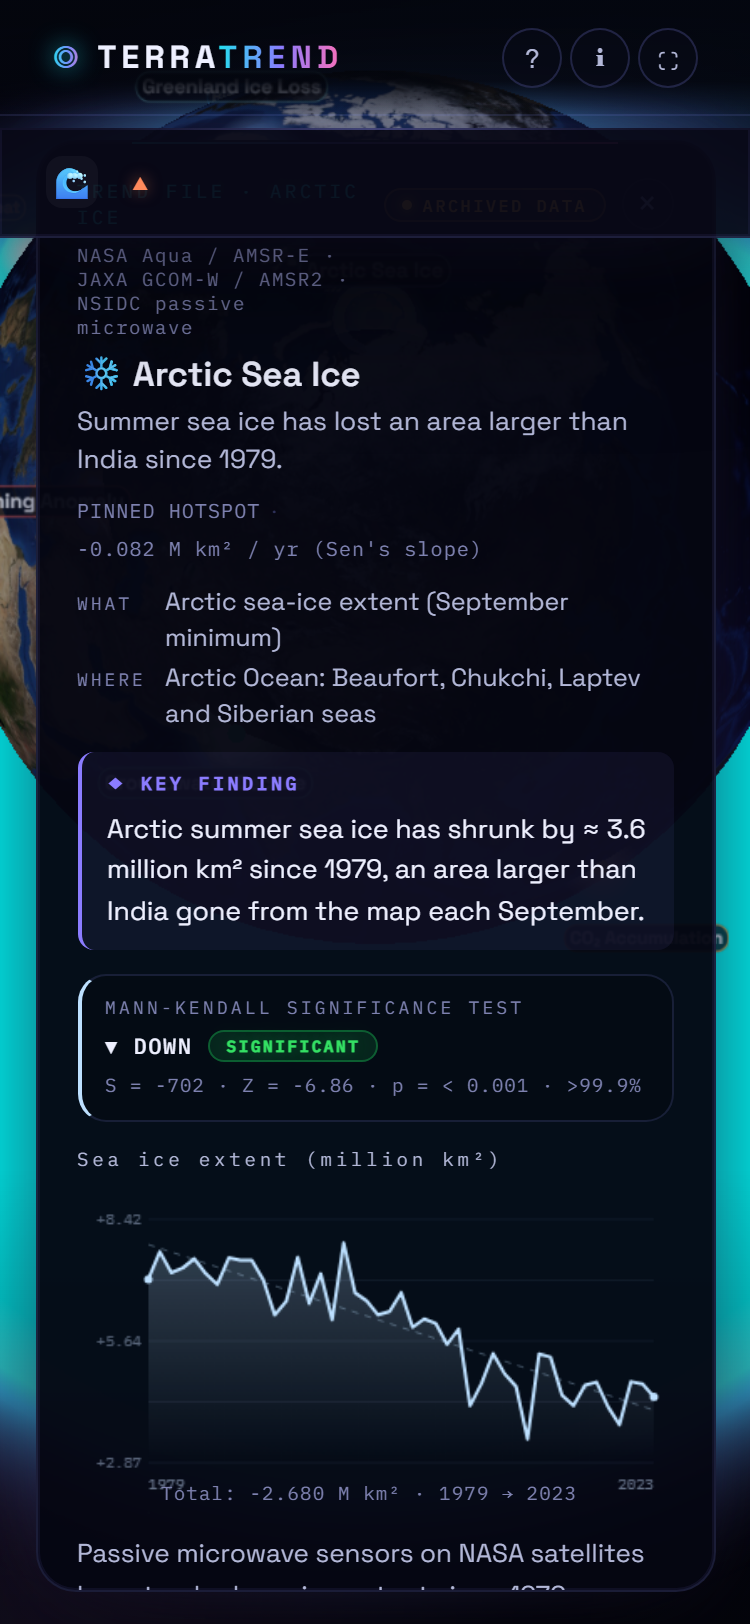
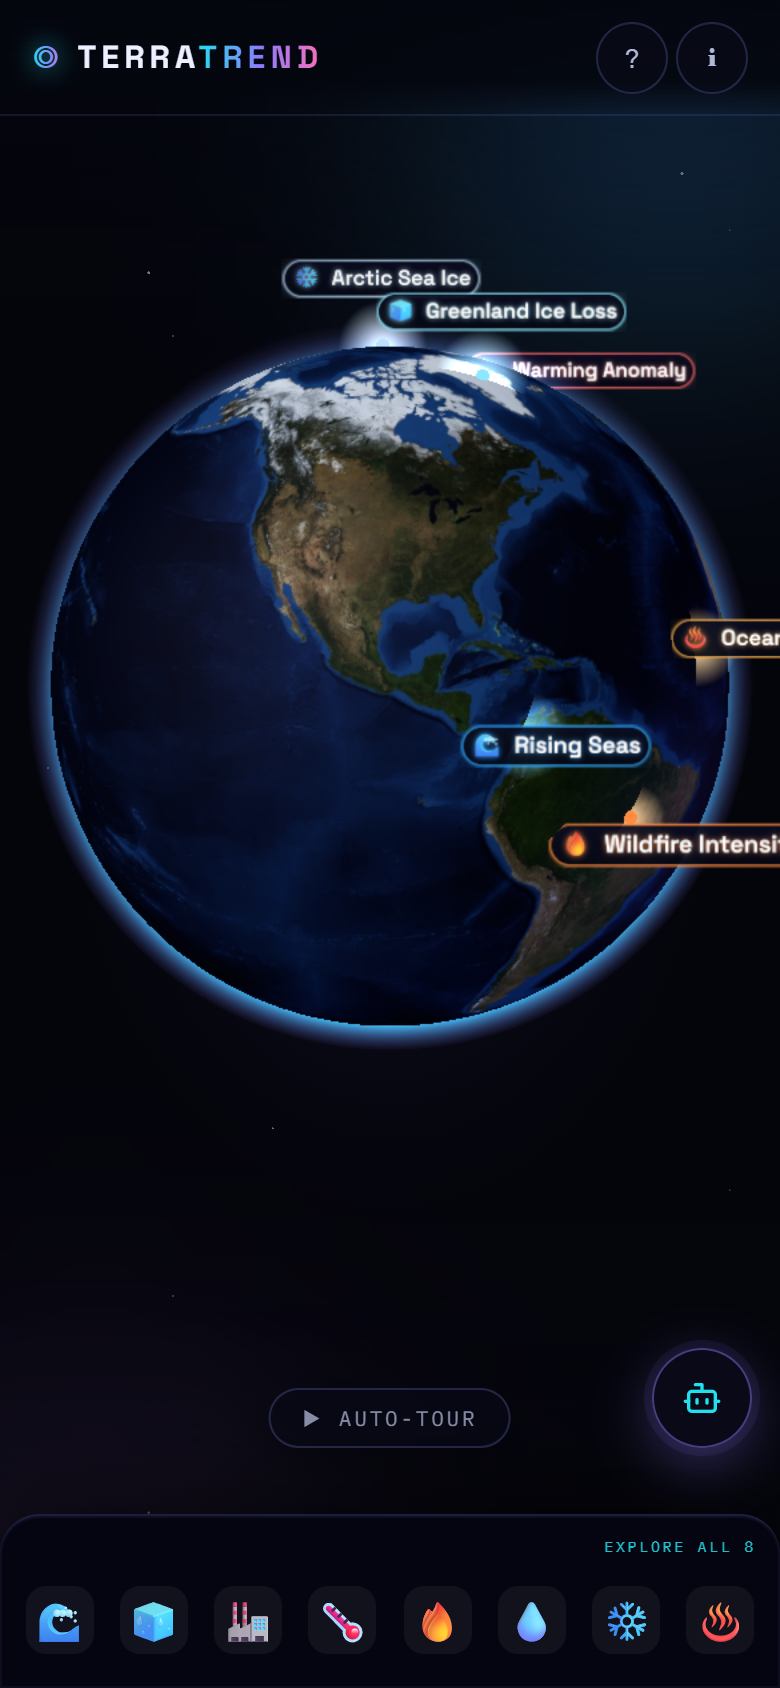
Overhaul README for hackathon judges + fresh screenshots
README changes:
- Add placeholder YouTube video demo badge at top
- Add Impact section explaining who benefits and why it matters
- Add explicit NASA missions list under Challenge table
- Add Mann-Kendall methodology justification (rank-based, robust
  to non-normal distributions - standard in Earth science)
- Trim Features to 8 high-impact bullets; remove implementation details
- Remove Architecture diagram, Data Flow ascii and Project Structure
  tree (developer docs, not judge-facing)
- Move Running Locally below What's Next
- Update Variables table to show mission names more prominently

Screenshots (fresh captures from live site):
- splash.png: updated
- globe.png: updated (shows all 8 hotspot labels)
- panel-open.png: new - CO2 panel with chart and MK stats visible
- mobile-globe.png: updated
- mobile-panel.png: new - mobile panel with Rising Seas case file

Fix .gitignore to only exclude root-level PNGs (/*.png) so
docs/screenshots/ images are tracked correctly.

diff --git a/README.md b/README.md
@@ -5,6 +5,7 @@
 > Select a variable. Spin the globe. Discover what is changing, where, by how much and whether it is statistically significant.
 
 [![Live Demo](https://img.shields.io/badge/Live%20Demo-terratrend2.vercel.app-8b7cff?style=flat-square)](https://terratrend2.vercel.app)
+[![Video Demo](https://img.shields.io/badge/Video%20Demo-YouTube-ff0000?style=flat-square&logo=youtube)](https://youtu.be/PLACEHOLDER)
 [![NASA Space Apps](https://img.shields.io/badge/NASA%20Space%20Apps-2026-22e0ee?style=flat-square)](https://www.spaceappschallenge.org/)
 [![Stack](https://img.shields.io/badge/Stack-Vanilla%20JS%20%2B%20Three.js-ff6fb5?style=flat-square)](#technology)
 
@@ -32,95 +33,32 @@ The *Be an Earth System Trend Detective* challenge asks teams to use NASA data t
 | **How much** is it changing? | Sen's slope gives the rate of change per year in real units (mm, ppm, Gt, ZJ) |
 | **Is it statistically significant?** | Mann-Kendall non-parametric test reports S, Z, p-value and confidence level; only trends with p < 0.05 are marked significant |
 
-All data comes from NASA missions or NASA-partner agencies. The app pulls live measurements where CORS-enabled APIs exist and falls back silently to curated real-measurement archives so the experience never breaks.
+> **Why Mann-Kendall?** Unlike linear regression, Mann-Kendall is rank-based and robust to non-normal distributions and outliers — making it the standard method used by Earth scientists to detect monotonic trends in climate time series.
+
+**NASA missions and datasets used:** GRACE-FO · Jason-3 / Sentinel-6 · OCO-2 / OCO-3 · GISS GISTEMP v4 · Terra / Aqua MODIS · NSIDC passive microwave · ICESat-2 · AIRS (Aqua) · NOAA GML Mauna Loa · NOAA NCEI / Argo Float Network
+
+---
+
+## Impact
+
+TerraTrend turns decades of satellite measurements into detective stories that anyone can follow.
+
+Every trend on this globe represents a real, measured change in an Earth system — changes that affect food security, coastal infrastructure, freshwater supply and weather patterns for billions of people. By surfacing the *key finding*, the *why it matters* narrative and the full statistical output for each variable, the app bridges the gap between raw NASA data archives and public understanding.
+
+The target audience is anyone curious about what the data actually says: students, educators, journalists and policymakers who need to understand the science without reading technical papers.
 
 ---
 
 ## Screenshots
 
 <p align="center">
-  <img src="docs/screenshots/splash.png" alt="Launch splash screen" width="45%" />
-  <img src="docs/screenshots/globe.png" alt="Interactive 3D globe" width="45%" />
+  <img src="docs/screenshots/splash.png" alt="Launch splash screen" width="48%" />
+  <img src="docs/screenshots/globe.png" alt="Interactive 3D globe with hotspot labels" width="48%" />
 </p>
-
----
-
-## Architecture
-
-```mermaid
-flowchart TB
-    subgraph APIS["Live APIs"]
-        NOAA["NOAA GML\nMauna Loa CO2 CSV"]
-        OM["Open-Meteo\nERA5 Reanalysis"]
-    end
-
-    subgraph ARCHIVE["Fallback JSON  /data/fallback/"]
-        JSON["8 curated datasets\nco2 · sea-level · arctic-ice\nocean-heat · temperature\ngroundwater · wildfire · ice"]
-    end
-
-    subgraph DATALAYER["nasa-data.js - Data Layer"]
-        DL["Two-stage loading\n1. archive -> instant open\n2. live API -> silent upgrade"]
-    end
-
-    subgraph STATS["mann-kendall.js"]
-        MK["S · Z · p-value · Sen's slope\nSignificant when p < 0.05"]
-    end
-
-    subgraph GEODATA["Source Definitions"]
-        HS["data.js\n8 HOTSPOTS"]
-        RZ["regions.js\n20 REGION_ZONES"]
-    end
-
-    subgraph GLOBE["Rendering"]
-        G3["globe.js\nThree.js r160  WebGL 3D"]
-        G2["globe-2d.js\nCanvas 2D  fallback"]
-    end
-
-    subgraph UI["UI Layer"]
-        MAIN["main.js  -  UI wiring\nVariable pills · Auto-tour\nDeep-link · Ticker · Modals\nExplore tracker · Completion toast"]
-        CHART["chart.js  -  TerraTrendChart\nInteractive chart · Hover tooltip\nRegression overlay · Delta annotation"]
-        PANEL["Info panel\nNASA photo · Key Finding\nWhy It Matters · MK block · Source links"]
-    end
-
-    NOAA & OM --> DATALAYER
-    ARCHIVE --> DATALAYER
-    DATALAYER --> STATS
-    STATS --> PANEL
-    DATALAYER --> CHART
-    CHART --> PANEL
-    HS --> GLOBE
-    RZ --> GLOBE
-    GLOBE --> MAIN
-    DATALAYER --> MAIN
-    PANEL --> MAIN
-```
-
-### Data Flow
-
-```
-User clicks Launch
-      |
-      v
-Globe initialises  (Three.js WebGL or Canvas 2D fallback)
-      |
-      v
-URL deep-link checked  -->  if ?spot=X open that hotspot first
-      |
-      v
-loadCurated(spot)  -->  instant open: archived JSON from /data/fallback/
-      |
-      v
-Info panel: NASA photo · key finding · MK stats · trend chart
-      |
-      v  (background)
-load(spot) tries live API
-  +-- NOAA GML CSV   (CO2)
-  +-- Open-Meteo ERA5  (temperature · ice · wildfire)
-      |
-      v
-Live success  -->  panel upgrades silently, badge shows LIVE DATA
-Live failure  -->  stays on archive, badge shows ARCHIVED DATA
-```
+<p align="center">
+  <img src="docs/screenshots/panel-open.png" alt="Case file panel with trend chart and Mann-Kendall statistics" width="48%" />
+  <img src="docs/screenshots/mobile-panel.png" alt="Mobile view with panel open" width="22%" />
+</p>
 
 ---
 
@@ -137,95 +75,40 @@ Live failure  -->  stays on archive, badge shows ARCHIVED DATA
 
 ## Variables
 
-| Variable | Data Source | Live API | Archive |
-|----------|------------|---------|---------|
-| Rising Seas | NASA/CNES Jason-3, Sentinel-6 | none | `sea-level.json` (1993-2023) |
-| Greenland Ice | GRACE-FO + ERA5 reanalysis | Open-Meteo | `ice.json` (2000-2023) |
-| CO2 Accumulation | NOAA GML Mauna Loa | NOAA GML CSV | `co2.json` (1960-2023) |
-| Warming Anomaly | ECMWF ERA5 reanalysis | Open-Meteo | `temperature.json` (1960-2023) |
-| Wildfire Intensity | ECMWF ERA5 Amazon precip | Open-Meteo | `wildfire.json` (2000-2023) |
-| Groundwater Decline | NASA GRACE-FO TWS | none | `groundwater.json` (2002-2023) |
-| Arctic Sea Ice | NSIDC passive microwave | none | `arctic-ice.json` (1979-2023) |
-| Ocean Heat | NOAA NCEI / Argo floats | none | `ocean-heat.json` (1993-2023) |
+| Variable | NASA / Partner Mission | Live API | Record |
+|----------|----------------------|---------|--------|
+| Rising Seas | NASA/CNES Jason-3, Sentinel-6 | none | 1993-2023 |
+| Greenland Ice Loss | NASA GRACE-FO | Open-Meteo ERA5 | 2000-2023 |
+| CO2 Accumulation | NOAA GML / NASA OCO-2 | NOAA GML CSV | 1960-2023 |
+| Warming Anomaly | NASA GISS GISTEMP v4 | Open-Meteo ERA5 | 1960-2023 |
+| Wildfire Intensity | NASA Terra/Aqua MODIS | Open-Meteo ERA5 | 2000-2023 |
+| Groundwater Decline | NASA GRACE-FO TWS | none | 2002-2023 |
+| Arctic Sea Ice | NASA/NSIDC passive microwave | none | 1979-2023 |
+| Ocean Heat | NOAA NCEI / Argo Float Network | none | 1993-2023 |
 
 ---
 
-## Features
+## Key Features
 
-- **3D interactive globe** - Three.js r160, drag to spin, arrow-key navigation, auto-spin with snap-back
-- **Pulsing hotspot labels** - sprite labels breathe with a sine-wave scale animation; clicking any label opens its case file
-- **Auto-tour** - cycles all 8 hotspots at 8s intervals when triggered manually; any interaction stops the tour
-- **URL deep-linking** - share any hotspot with `?spot=co2`, `?spot=arctic-ice`, etc.
-- **Mann-Kendall significance** - non-parametric trend test with S, Z, p-value and Sen's slope; plain-language summary alongside the statistics
-- **Two-stage data loading** - archived JSON opens instantly, live API upgrades silently if available
-- **NASA satellite imagery** - real mission photograph in every case-file panel
-- **Cinematic panel** - banner photo, key finding callout, "Why It Matters" section, source link and mission tag
-- **Interactive chart** - hover to read any year's exact value; linear regression overlay; total-change annotation; unit label
-- **Explore tracker** - progress counter and viewed-pill indicator; completion toast fires exactly once when all 8 are opened
-- **Clickable source links** - data attribution links directly to the source dataset
-- **Panel navigation** - prev/next arrows cycle all 8 variables and auto-scroll to the top on each change
-- **20 clickable surface zones** - click anywhere on the globe for a regional trend story
-- **WebGL fallback** - orthographic 2D canvas globe when WebGL is unavailable
-- **Responsive** - mobile horizontal pill bar (icon-only), panel floats above dock, chatbot hides while info panel is open
-- **Earth AI assistant** *(work in progress)* - chatbot slot wired and ready for Claude API integration
+- **3D interactive globe** - WebGL globe with pulsing hotspot labels; clicking any label or marker opens its case file
+- **Statistical significance** - Mann-Kendall test with S, Z, p-value and Sen's slope; plain-language interpretation alongside the numbers
+- **Two-stage data loading** - archived JSON opens the panel instantly while a live API upgrade runs silently in the background
+- **Case file panel** - NASA mission photograph, key finding callout, "Why It Matters" narrative, interactive trend chart and full source attribution
+- **20 regional surface zones** - click anywhere on the globe to surface a local trend story for that coordinate
+- **Explore tracker** - progress counter across all 8 variables with a completion moment when all are investigated
+- **Responsive** - full mobile support with icon dock, floating panel and touch navigation
+- **Earth AI assistant** *(work in progress)* - chatbot slot wired and ready for Claude API integration to explain trends in plain language
 
 ---
 
 ## Technology
 
 - **Three.js r160** - 3D WebGL globe, self-hosted to avoid CDN blocking
-- **Canvas 2D fallback** - automatic degradation for remote desktop and GPU-blocklisted environments
-- **Mann-Kendall test** - non-parametric trend detection; same method used by Earth scientists
+- **Canvas 2D fallback** - automatic degradation when WebGL is unavailable
+- **Mann-Kendall test** - implemented from scratch in `mann-kendall.js` (Mann 1945, Sen 1968); no external stats library
 - **Open-Meteo ERA5** - free, CORS-enabled reanalysis API (no key required)
 - **NOAA GML** - live Mauna Loa CO2 CSV
 - **Vanilla JS** - zero build step, zero runtime dependencies beyond Three.js
-
----
-
-## Project Structure
-
-```
-TerraTrend/
-+-- index.html                  Single-page app shell
-+-- favicon.svg                 SVG favicon
-+-- css/
-|   +-- base.css                Variables, fonts, resets
-|   +-- layout.css              Background, header, app structure, footer
-|   +-- splash.css              Splash screen and launch button
-|   +-- globe.css               Globe canvas, tooltip, fallback card
-|   +-- ticker.css              Marquee data ticker
-|   +-- panel.css               Info panel, chart, MK block, callouts
-|   +-- sidebar.css             Variable selector sidebar, pills, explore tracker
-|   +-- modals.css              Method and about modals
-|   +-- chatbot.css             AI assistant FAB and chat panel
-+-- js/
-|   +-- data.js                 8 HOTSPOTS case-file definitions
-|   +-- regions.js              20 REGION_ZONES for surface clicks
-|   +-- mann-kendall.js         Non-parametric trend test (Mann 1945, Sen 1968)
-|   +-- nasa-data.js            Live API + fallback JSON data layer
-|   +-- chart.js                Interactive canvas chart (TerraTrendChart)
-|   +-- globe-2d.js             Canvas 2D globe (WebGL fallback)
-|   +-- globe.js                Three.js 3D globe (label pulse, snap-back, raycasting)
-|   +-- main.js                 UI wiring: pills, panel, ticker, modals, explore tracker
-|   +-- vendor/
-|       +-- three.min.js        Three.js r160 (self-hosted)
-+-- data/
-|   +-- fallback/               Curated real-measurement JSON archives
-|       +-- co2.json            NOAA Mauna Loa 1960-2023
-|       +-- sea-level.json      Jason/Sentinel-6 1993-2023
-|       +-- ice.json            GRACE-FO 2000-2023
-|       +-- temperature.json    GISTEMP v4 1960-2023
-|       +-- groundwater.json    GRACE-FO TWS 2002-2023
-|       +-- wildfire.json       ERA5 Amazon 2000-2023
-|       +-- arctic-ice.json     NSIDC September extent 1979-2023
-|       +-- ocean-heat.json     NOAA/Argo OHC 1993-2023
-+-- docs/
-|   +-- screenshots/            Project screenshots
-+-- fonts/                      Self-hosted woff2
-    +-- SpaceGrotesk-latin.woff2
-    +-- IBMPlexMono-400-latin.woff2
-    +-- IBMPlexMono-500-latin.woff2
-```
 
 ---
 
@@ -240,19 +123,17 @@ python3 -m http.server 8090
 
 # Option 2: Node
 npx serve .
-
-# Option 3: Open index.html directly in a modern browser
 ```
 
-> **Note:** Live API calls (NOAA, Open-Meteo) require a server context (not `file://`). Archived fallback data works without a server.
+> Live API calls (NOAA, Open-Meteo) require a server context. Archived fallback data works without one.
 
 ---
 
 ## What's Next
 
-- **Earth AI assistant** - chatbot integration with the Claude API to explain trends in plain language *(in progress)*
+- **Earth AI assistant** - Claude API integration to answer questions about any trend in plain language *(in progress)*
 - **Animation playback** - scrub through years to watch trends evolve spatially
-- **Custom region upload** - bring your own CSV and run Mann-Kendall on the spot
+- **Custom dataset upload** - bring your own CSV and run Mann-Kendall on the spot
 
 ---
 
